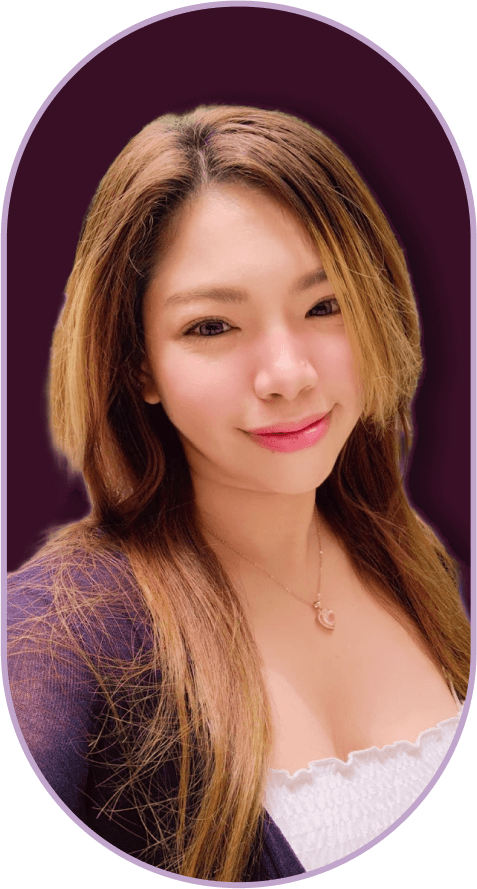
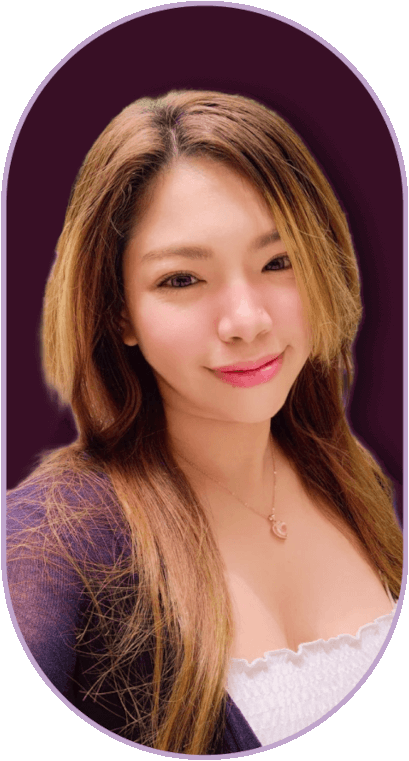
feat: about

diff --git a/src/app/components/ui/About.tsx b/src/app/components/ui/About.tsx
@@ -1,0 +1,112 @@
+"use client";
+
+import { motion, useAnimation, useInView } from "framer-motion";
+import Image from "next/image";
+import { useEffect, useRef } from "react";
+
+export function About() {
+  const ref = useRef<HTMLDivElement | null>(null);
+  const controls = useAnimation();
+  const inView = useInView(ref, { once: true });
+
+  const variants = {
+    hidden: {
+      opacity: 0,
+      y: 25,
+    },
+    visible: {
+      opacity: 1,
+      y: 0,
+    },
+  };
+
+  useEffect(() => {
+    if (inView) {
+      controls.start("visible");
+    }
+  }, [inView]);
+
+  return (
+    <motion.section
+      animate={controls}
+      variants={variants}
+      transition={{ duration: 1, damping: 20 }}
+      initial="hidden"
+      ref={ref}
+      className="xl:gap-40 mt-0 flex flex-1 flex-col md:mt-12 md:flex-row lg:gap-24"
+    >
+      <DesktopPicture />
+      <MobilePicture />
+      <div className="flex flex-1 flex-col justify-center gap-8 text-center md:text-start">
+        <h2>Meet Leona</h2>
+        <Image
+          src="/assets/title-separator.png"
+          width={267}
+          height={32}
+          alt=""
+          className="mx-auto md:ml-0"
+        />
+        <p>
+          Leona is a psychic tarot reader and astrologer. She founded Tarot
+          Witch Davao in 2018, a brand that helps individuals receive spiritual
+          guidance through her psychic tarot messages, past-life readings,
+          fortune-telling, and more. In 2024, she established Tarot by Leona, a
+          brand that caters not only to the Philippines but also to clients
+          across the globe.
+        </p>
+        <p>
+          She is also adept at providing birth chart analysis via astrology,
+          offering detailed information on topics such as love life, career, and
+          Astro therapy (healing through self-awareness).
+        </p>
+        <p>
+          Leona is a free spirit who has dedicated her life to finding her soul
+          purpose. She discovered her gifts through soul work, meditation, and
+          her magical practice in spirituality. As an emotional projector, her
+          soul purpose is to use her psychic gifts as a guide to help
+          individuals she encounters in this lifetime.
+        </p>
+      </div>
+    </motion.section>
+  );
+}
+
+function DesktopPicture() {
+  return (
+    <div className="relative hidden md:block">
+      <Image
+        src="/assets/stars.png"
+        width={304}
+        height={345}
+        alt=""
+        className="absolute -left-20 -top-20 rotate-180"
+      />
+      <Image
+        src="/assets/leona.png"
+        width={409}
+        height={761}
+        alt="Leona Aoki"
+      />
+      <Image
+        src="/assets/stars.png"
+        width={304}
+        height={345}
+        alt=""
+        className="absolute -bottom-20 -right-20"
+      />
+    </div>
+  );
+}
+
+function MobilePicture() {
+  return (
+    <div className="relative flex justify-center md:hidden">
+      <Image
+        src="/assets/leona-mobile.png"
+        width={409}
+        height={761}
+        alt="Leona Aoki"
+      />
+    </div>
+  );
+}

diff --git a/src/app/components/ui/Navbar.tsx b/src/app/components/ui/Navbar.tsx
@@ -16,25 +16,25 @@ function DesktopNavbar() {
         height={116}
         alt="Tarot by Leona"
       />
-      <nav className="text-white mx-8 flex flex-1 justify-end gap-8">
-        <Link className="font-title" href="#about">
+      <nav className="mx-8 flex flex-1 justify-end gap-8">
+        <Link className="font-title text-white" href="#about">
           About
         </Link>
-        <Link className="font-title" href="#services">
+        <Link className="font-title text-white" href="#services">
           Services
         </Link>
-        <Link className="font-title" href="#testimonials">
+        <Link className="font-title text-white" href="#testimonials">
           Testimonials
         </Link>
-        <Link className="font-title" href="#shop">
+        <Link className="font-title text-white" href="#shop">
           Shop
         </Link>
       </nav>
-      <nav className="text-white flex flex-1 justify-end gap-8">
-        <Link href="#">
+      <nav className="flex flex-1 justify-end gap-8 text-white">
+        <Link href="#" className="text-white">
           <FontAwesomeIcon icon={faLinkedin} size="lg" />
         </Link>
-        <Link href="#">
+        <Link href="#" className="text-white">
           <FontAwesomeIcon icon={faFacebook} size="lg" />
         </Link>
       </nav>

diff --git a/src/app/page.tsx b/src/app/page.tsx
@@ -1,10 +1,12 @@
-import { Hero } from "@/app/components/ui/Hero";
+import { About, Hero } from "@/app/components/ui";
 
 export default function Home() {
   return (
     <>
       <Hero />
-      <div className="container h-screen"></div>
+      <div className="container h-screen">
+        <About />
+      </div>
     </>
   );
 }

diff --git a/src/app/globals.css b/src/app/globals.css
@@ -5,14 +5,18 @@
 h1,
 h2,
 h3 {
-  @apply font-title;
+  @apply font-title text-pink-900;
 }
 
 h1 {
   @apply text-5xl font-bold lg:text-7xl lg:leading-snug;
 }
 
+h2 {
+  @apply text-4xl;
+}
+
 p,
 a {
-  @apply font-body;
+  @apply font-body text-xl leading-relaxed text-gray-500;
 }

diff --git a/tailwind.config.ts b/tailwind.config.ts
@@ -8,7 +8,7 @@ const config: Config = {
   ],
   theme: {
     screens: {
-      DEFAULT: "1440px",
+      DEFAULT: "1280px",
       lg: "1024px",
       md: "992px",
       sm: "768px",

diff --git a/src/app/components/ui/index.ts b/src/app/components/ui/index.ts
@@ -1,0 +1,2 @@
+export { About } from "./About";
+export { Hero } from "./Hero";
